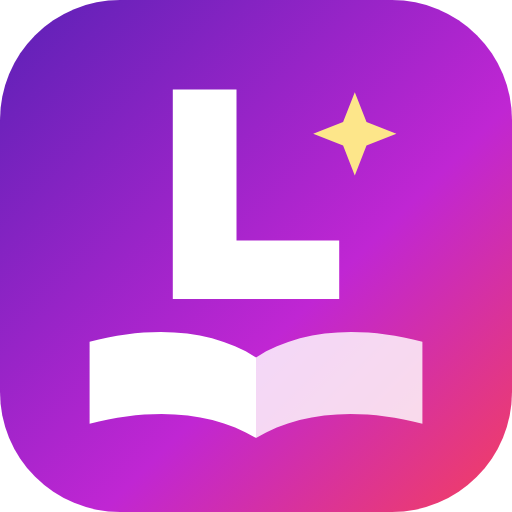
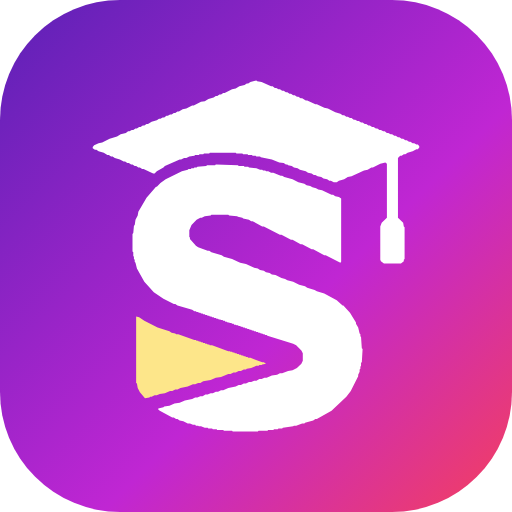
Add files via upload

Changed region(s): [[0.1562, 0.1562, 0.8438, 0.875]]

diff --git a/index.html b/index.html
@@ -4644,9 +4644,9 @@ window.addEventListener('online',()=>{ if(apiState==='unknown') retryDetect(); e
   }
   FX.fabPolicy = policy;
 
-  /* ======================= logo: an L on an open book (StudyLee) ======================= */
-  const PALS = '<path d="M9.6 3.2h4.9v11.6h7.9v4.5H9.6z" fill="#fff"/><path d="M23.6 3.4l.9 2.3 2.3.9-2.3.9-.9 2.3-.9-2.3-2.3-.9 2.3-.9z" fill="#fde68a"/>'
-    + '<path d="M3.2 22.6C8.2 21.3 12.7 21.7 16 23.8v6.2c-3.3-2-7.8-2.4-12.8-1.1z" fill="#fff"/><path d="M28.8 22.6C23.8 21.3 19.3 21.7 16 23.8v6.2c3.3-2 7.8-2.4 12.8-1.1z" fill="#fff" fill-opacity=".82"/>';
+  /* ======================= logo: graduation-cap S (StudyLee) ======================= */
+  const PALS = '<path fill="#fff" fill-rule="evenodd" d="M9.05 10.10L8.65 10.38L8.37 10.67L8.31 10.67L7.58 11.52L6.95 12.60L6.90 12.88L6.73 13.22L6.67 13.62L6.61 13.67L6.56 14.24L6.50 14.30L6.50 15.66L6.56 15.72L6.56 16.00L6.61 16.06L6.61 16.23L6.67 16.28L6.67 16.45L6.73 16.51L6.84 16.96L7.41 17.99L8.14 18.78L8.88 19.29L9.68 19.69L9.79 19.69L9.96 19.80L11.09 20.14L11.26 20.25L11.38 20.25L11.43 20.31L11.55 20.31L11.60 20.37L11.72 20.37L11.77 20.42L11.89 20.42L11.94 20.48L12.06 20.48L12.11 20.54L12.23 20.54L12.28 20.59L12.40 20.59L12.45 20.65L12.57 20.65L12.62 20.71L12.74 20.71L12.80 20.76L12.91 20.76L12.97 20.82L13.08 20.82L13.14 20.88L13.25 20.88L13.31 20.93L13.42 20.93L13.48 20.99L13.59 20.99L13.65 21.05L13.76 21.05L13.82 21.11L13.93 21.11L13.99 21.16L14.10 21.16L14.16 21.22L14.27 21.22L14.33 21.28L14.44 21.28L14.50 21.33L14.61 21.33L14.67 21.39L14.78 21.39L14.84 21.45L14.95 21.45L15.01 21.50L15.12 21.50L15.18 21.56L15.29 21.56L15.35 21.62L15.46 21.62L15.52 21.67L15.63 21.67L15.69 21.73L15.80 21.73L15.86 21.79L15.97 21.79L16.03 21.84L16.14 21.84L16.20 21.90L16.31 21.90L16.37 21.96L16.48 21.96L16.54 22.01L16.65 22.01L16.71 22.07L16.82 22.07L16.88 22.13L18.86 22.75L19.09 22.86L19.49 23.26L19.60 23.49L19.60 24.05L19.49 24.28L19.15 24.62L18.81 24.79L18.47 24.85L18.01 25.02L17.84 25.02L17.62 25.13L17.22 25.19L16.82 25.36L16.65 25.36L16.43 25.47L16.26 25.47L16.03 25.59L15.86 25.59L15.63 25.70L15.46 25.70L15.23 25.81L15.06 25.81L14.84 25.93L14.67 25.93L14.44 26.04L13.87 26.15L13.48 26.32L13.31 26.32L13.08 26.44L12.91 26.44L12.68 26.55L12.51 26.55L12.28 26.66L12.11 26.66L11.89 26.78L11.72 26.78L11.49 26.89L11.32 26.89L11.09 27.00L10.53 27.12L10.13 27.29L9.73 27.34L9.34 27.51L8.94 27.57L8.88 27.63L8.48 27.74L8.48 27.80L8.60 27.91L9.56 28.42L9.68 28.42L9.85 28.54L9.96 28.54L10.13 28.65L10.41 28.71L10.75 28.88L10.92 28.88L11.15 28.99L11.32 28.99L11.38 29.05L11.55 29.05L11.60 29.10L11.77 29.10L12.06 29.22L12.28 29.22L12.34 29.27L12.62 29.27L12.68 29.33L12.97 29.33L13.02 29.39L13.48 29.39L13.53 29.44L14.16 29.44L14.21 29.50L16.14 29.50L16.20 29.44L16.88 29.44L16.94 29.39L17.33 29.39L17.39 29.33L17.67 29.33L17.73 29.27L18.01 29.27L18.07 29.22L18.86 29.10L18.92 29.05L19.09 29.05L19.55 28.88L19.72 28.88L19.77 28.82L20.40 28.65L20.57 28.54L20.68 28.54L21.81 27.91L22.95 26.83L23.29 26.38L23.86 25.25L23.86 25.13L23.97 24.91L23.97 24.74L24.03 24.68L24.03 24.51L24.08 24.45L24.08 24.22L24.14 24.17L24.20 23.15L24.14 23.09L24.08 22.24L24.03 22.18L24.03 22.01L23.97 21.96L23.86 21.50L23.69 21.22L23.69 21.11L23.23 20.37L22.72 19.80L22.66 19.80L22.21 19.40L21.25 18.89L20.68 18.72L20.51 18.61L19.94 18.44L19.77 18.33L19.32 18.21L18.86 17.99L18.41 17.87L18.24 17.76L17.96 17.70L17.50 17.47L17.22 17.42L17.05 17.30L16.77 17.25L16.60 17.13L16.31 17.08L16.14 16.96L15.86 16.91L15.23 16.62L14.78 16.51L14.16 16.23L13.53 16.06L13.36 15.94L12.57 15.72L12.40 15.60L12.28 15.60L11.55 15.32L11.38 15.21L10.92 14.70L10.92 14.58L10.87 14.53L10.87 14.01L11.04 13.62L11.43 13.22L11.72 13.05L11.83 13.05L12.06 12.94L12.51 12.88L12.57 12.82L13.87 12.82L13.93 12.88L14.55 12.94L14.61 12.99L14.95 13.05L15.01 13.11L15.46 13.22L15.63 13.33L15.74 13.33L16.48 13.73L16.60 13.73L17.84 14.36L17.96 14.36L18.69 14.75L18.81 14.75L19.43 15.09L19.55 15.09L20.28 15.49L20.40 15.49L21.25 15.94L21.36 15.94L22.49 16.51L22.55 16.45L22.55 11.58L22.38 11.46L22.10 11.41L21.93 11.29L21.81 11.29L21.08 10.95L20.79 10.89L20.62 10.78L20.34 10.72L20.17 10.61L19.89 10.55L19.72 10.44L19.26 10.33L18.81 10.10L18.18 9.93L18.01 9.82L17.90 9.82L17.33 9.59L17.16 9.59L16.94 9.48L16.77 9.48L16.71 9.42L16.54 9.42L16.48 9.36L16.31 9.36L16.03 9.25L15.46 9.19L15.40 9.14L15.12 9.14L15.06 9.08L14.67 9.08L14.61 9.02L12.91 8.97L12.85 9.02L12.23 9.02L12.17 9.08L11.49 9.14L11.43 9.19L11.26 9.19L11.21 9.25L11.04 9.25L10.98 9.31L10.81 9.31L10.75 9.36L10.30 9.48ZM3.44 7.61L3.44 7.72L3.61 7.83L3.72 7.83L3.89 7.95L4.29 8.06L4.57 8.23L4.68 8.23L4.85 8.34L4.97 8.34L5.14 8.46L5.53 8.57L5.82 8.74L5.93 8.74L6.10 8.85L6.22 8.85L6.39 8.97L6.50 8.97L6.67 9.08L6.78 9.08L6.95 9.19L7.07 9.19L7.24 9.31L7.35 9.31L8.09 9.65L8.20 9.65L8.37 9.48L8.88 9.19L8.99 9.08L10.13 8.57L10.24 8.57L10.47 8.46L10.64 8.46L10.87 8.34L11.26 8.29L11.32 8.23L11.60 8.23L11.66 8.17L11.94 8.17L12.00 8.12L12.40 8.12L12.45 8.06L14.44 8.06L14.50 8.12L14.95 8.12L15.01 8.17L15.35 8.17L15.40 8.23L15.69 8.23L15.74 8.29L15.97 8.29L16.03 8.34L16.31 8.34L16.37 8.40L17.22 8.57L17.79 8.80L18.13 8.85L18.30 8.97L18.41 8.97L18.47 9.02L18.75 9.08L18.92 9.19L19.20 9.25L19.38 9.36L19.83 9.48L20.00 9.59L20.28 9.65L20.45 9.76L20.57 9.76L20.74 9.87L21.02 9.93L21.19 10.04L21.47 10.10L21.64 10.21L21.76 10.21L21.98 10.33L22.21 10.33L22.38 10.21L22.78 10.10L23.06 9.93L23.35 9.87L24.31 9.42L24.59 9.36L24.88 9.19L24.99 9.19L25.56 8.91L25.95 8.80L26.07 8.91L26.07 13.05L25.67 13.45L25.56 13.73L25.56 16.28L25.61 16.40L25.84 16.57L27.15 16.57L27.37 16.40L27.37 16.28L27.43 16.23L27.43 13.79L27.37 13.73L27.32 13.45L26.92 13.05L26.92 8.46L27.09 8.29L27.20 8.29L27.37 8.17L27.49 8.17L27.66 8.06L28.05 7.95L28.34 7.78L28.45 7.78L28.56 7.66L28.56 7.55L28.45 7.43L28.34 7.43L28.17 7.32L28.05 7.32L27.88 7.21L27.77 7.21L27.60 7.09L27.49 7.09L27.32 6.98L27.20 6.98L27.03 6.87L26.92 6.87L26.75 6.75L26.64 6.75L26.47 6.64L26.35 6.64L26.18 6.53L26.07 6.53L25.90 6.41L25.78 6.41L25.61 6.30L25.50 6.30L25.33 6.19L25.22 6.19L25.05 6.07L24.93 6.07L24.76 5.96L24.65 5.96L24.48 5.85L24.37 5.85L24.20 5.73L24.08 5.73L23.91 5.62L23.80 5.62L23.63 5.51L23.52 5.51L23.35 5.39L23.23 5.39L23.06 5.28L22.95 5.28L22.78 5.17L22.66 5.17L22.49 5.05L22.10 4.94L21.53 4.66L21.25 4.60L20.68 4.32L20.57 4.32L19.94 4.03L19.83 4.03L19.55 3.86L19.43 3.86L19.26 3.75L19.15 3.75L18.98 3.63L18.86 3.63L18.69 3.52L18.58 3.52L18.41 3.41L18.30 3.41L18.13 3.29L18.01 3.29L17.84 3.18L17.73 3.18L17.56 3.07L17.45 3.07L17.28 2.95L17.16 2.95L16.43 2.61L16.09 2.56L16.03 2.50L15.57 2.61L15.40 2.73L15.29 2.73L15.12 2.84L14.72 2.95L14.44 3.12L14.16 3.18L13.59 3.46L13.48 3.46L13.31 3.58L13.19 3.58L13.02 3.69L12.91 3.69L12.74 3.80L12.34 3.92L12.06 4.09L11.77 4.14L11.21 4.43L11.09 4.43L10.64 4.66L10.36 4.71L10.07 4.88L9.96 4.88L9.79 5.00L9.68 5.00L9.51 5.11L9.39 5.11L9.22 5.22L9.11 5.22L8.94 5.34L8.82 5.34L8.65 5.45L8.54 5.45L8.37 5.56L7.97 5.68L7.69 5.85L7.58 5.85L7.41 5.96L7.29 5.96L7.12 6.07L7.01 6.07L6.84 6.19L6.73 6.19L6.56 6.30L6.44 6.30L6.27 6.41L6.16 6.41L5.99 6.53L5.59 6.64L5.31 6.81L4.74 6.98L4.17 7.26L3.89 7.32L3.55 7.49Z"/>'
+    + '<path fill="#fde68a" fill-rule="evenodd" d="M6.78 20.65L6.78 25.76L6.84 25.81L6.90 26.15L7.07 26.49L7.46 26.95L7.80 26.89L7.86 26.83L7.97 26.83L8.20 26.72L8.37 26.72L8.60 26.61L8.99 26.55L9.39 26.38L9.56 26.38L9.79 26.27L9.96 26.27L10.19 26.15L10.75 26.04L11.15 25.87L11.32 25.87L11.55 25.76L11.72 25.76L11.94 25.64L12.51 25.53L12.91 25.36L13.31 25.30L13.87 25.08L14.04 25.08L14.27 24.96L14.44 24.96L14.67 24.85L14.84 24.85L15.06 24.74L15.23 24.74L15.29 24.68L15.63 24.62L16.03 24.45L16.20 24.45L16.26 24.39L16.43 24.39L16.48 24.34L16.77 24.28L16.60 24.17L16.48 24.17L15.57 23.83L15.40 23.83L15.35 23.77L15.23 23.77L15.18 23.71L15.06 23.71L15.01 23.66L14.89 23.66L14.84 23.60L14.72 23.60L14.67 23.54L14.55 23.54L14.50 23.49L14.38 23.49L14.33 23.43L14.21 23.43L14.16 23.37L14.04 23.37L13.99 23.32L13.87 23.32L12.62 22.86L12.45 22.86L12.40 22.81L12.28 22.81L12.23 22.75L12.11 22.75L12.06 22.69L11.94 22.69L11.89 22.64L11.77 22.64L11.72 22.58L11.60 22.58L11.55 22.52L11.43 22.52L11.38 22.47L11.26 22.47L10.02 22.01L9.85 22.01L9.79 21.96L9.51 21.90L9.34 21.79L8.43 21.50L7.41 20.99L7.01 20.71Z"/>';
   function logo() {
     const lm = $q('.logo-mark'); if (lm) lm.innerHTML = '<svg width="26" height="26" viewBox="0 0 32 32" aria-hidden="true">' + PALS + '</svg>';
     const icon = '<svg xmlns="http://www.w3.org/2000/svg" viewBox="0 0 64 64"><defs><linearGradient id="g" x1="0" y1="0" x2="1" y2="1"><stop offset="0" stop-color="#5b21b6"/><stop offset=".6" stop-color="#c026d3"/><stop offset="1" stop-color="#f43f5e"/></linearGradient></defs><rect width="64" height="64" rx="15" fill="url(#g)"/><g transform="translate(6 6) scale(1.625)">' + PALS + '</g></svg>';
